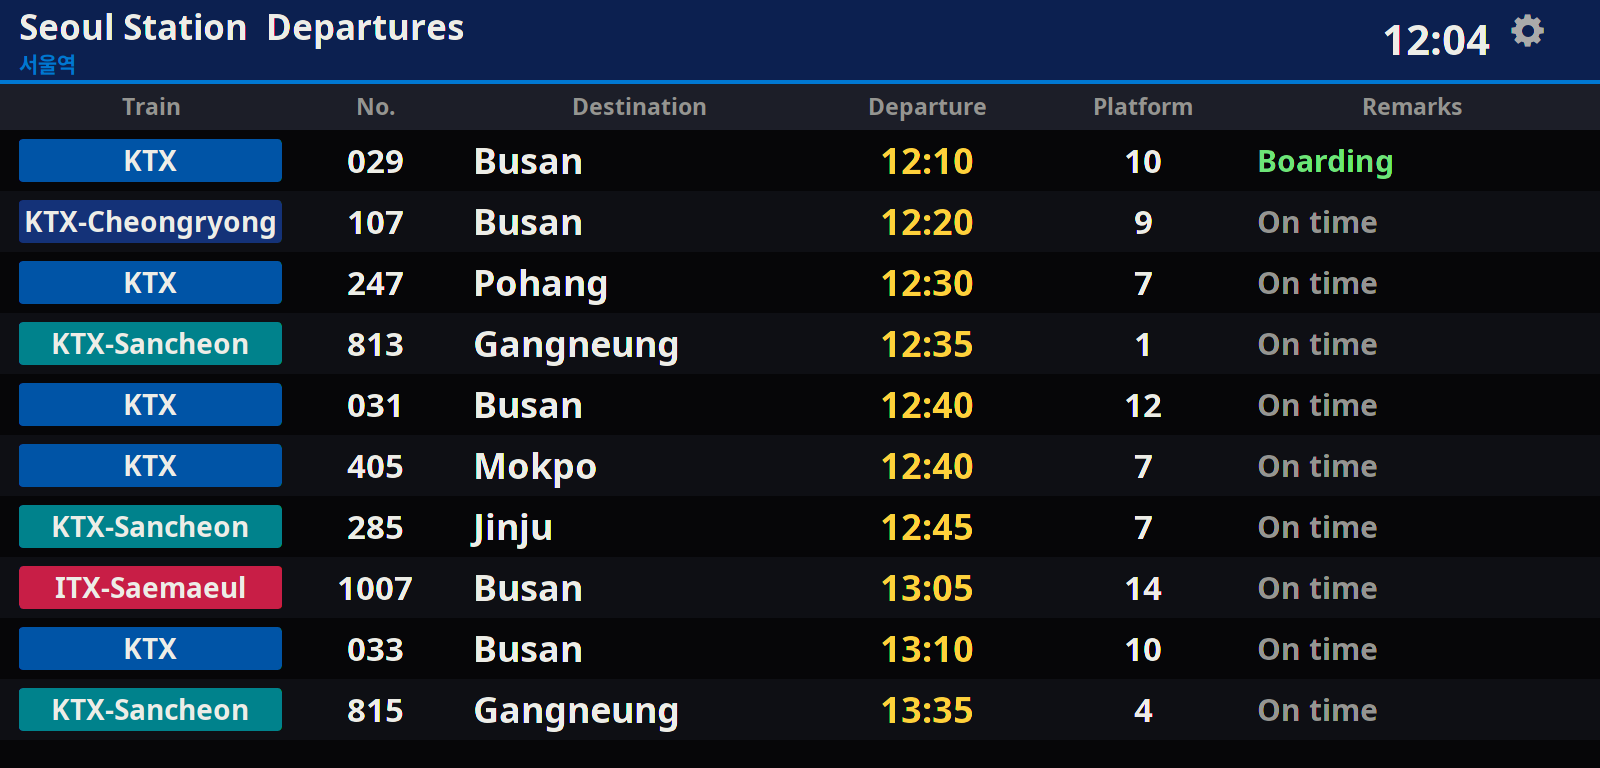
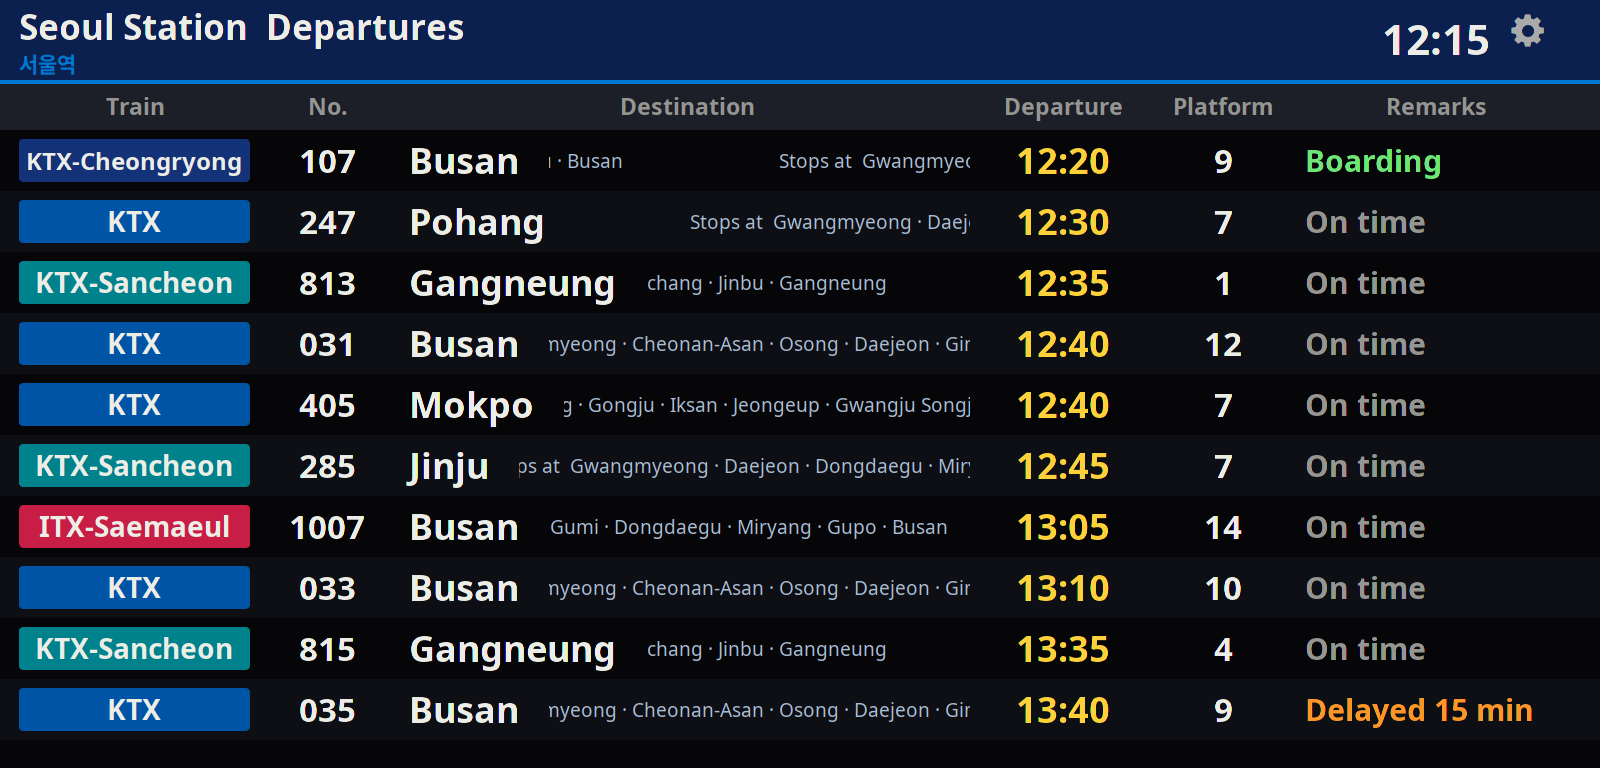
Seoul: scroll the stopping stations after each destination
A marquee in small type after the destination, in the board's current
language; only those strips are redrawn on each tick. The platform column
shows just the number in Korean.

diff --git a/src/Station.cpp b/src/Station.cpp
@@ -271,34 +271,123 @@ build_slots(const void* services, int stride, int count, int64 now,
 
 const KorailService kKorail[] = {
 	{ T(30, 0, 310, 1320), { "KTX", "KTX", "KTX", "KTX" }, C(0, 84, 166),
-		{ "부산", "Busan", "釜山", "釜山" }, 1, 9, 14 },
+		{ "부산", "Busan", "釜山", "釜山" }, 1, 9, 14,
+		"광명|천안아산|오송|대전|김천구미|동대구|신경주|울산|부산" },
 	{ T(120, 50, 330, 1260), { "KTX-청룡", "KTX-Cheongryong", "KTX青龍",
 		"KTX青龙" }, C(20, 50, 120), { "부산", "Busan", "釜山", "釜山" }, 101,
-		9, 14 },
+		9, 14,
+		"광명|대전|동대구|부산" },
 	{ T(120, 15, 330, 1200), { "KTX-산천", "KTX-Sancheon", "KTX山川",
 		"KTX山川" }, C(0, 130, 140), { "마산", "Masan", "馬山", "马山" }, 201,
-		7, 12 },
+		7, 12,
+		"광명|천안아산|오송|대전|동대구|밀양|진영|창원중앙|창원|마산" },
 	{ T(180, 75, 330, 1200), { "KTX-산천", "KTX-Sancheon", "KTX山川",
 		"KTX山川" }, C(0, 130, 140), { "진주", "Jinju", "晋州", "晋州" }, 281,
-		7, 12 },
+		7, 12,
+		"광명|대전|동대구|밀양|창원중앙|창원|마산|진주" },
 	{ T(120, 45, 345, 1215), { "KTX", "KTX", "KTX", "KTX" }, C(0, 84, 166),
-		{ "포항", "Pohang", "浦項", "浦项" }, 241, 7, 12 },
+		{ "포항", "Pohang", "浦項", "浦项" }, 241, 7, 12,
+		"광명|대전|동대구|신경주|포항" },
 	{ T(180, 20, 380, 1220), { "KTX", "KTX", "KTX", "KTX" }, C(0, 84, 166),
-		{ "목포", "Mokpo", "木浦", "木浦" }, 401, 5, 8 },
+		{ "목포", "Mokpo", "木浦", "木浦" }, 401, 5, 8,
+		"광명|천안아산|오송|공주|익산|정읍|광주송정|나주|목포" },
 	{ T(60, 35, 360, 1290), { "KTX-산천", "KTX-Sancheon", "KTX山川",
 		"KTX山川" }, C(0, 130, 140), { "강릉", "Gangneung", "江陵", "江陵" },
-		801, 1, 4 },
+		801, 1, 4,
+		"청량리|상봉|양평|만종|횡성|둔내|평창|진부|강릉" },
 	{ T(120, 65, 360, 1260), { "ITX-새마을", "ITX-Saemaeul", "ITXセマウル",
 		"ITX新村" }, C(200, 30, 70), { "부산", "Busan", "釜山", "釜山" }, 1001,
-		13, 14 },
+		13, 14,
+		"영등포|수원|천안|대전|김천|구미|동대구|밀양|구포|부산" },
 	{ T(120, 25, 335, 1340), { "무궁화호", "Mugunghwa", "ムグンファ号",
 		"无穷花号" }, C(240, 120, 20), { "부산", "Busan", "釜山", "釜山" }, 1201,
-		13, 14 },
+		13, 14,
+		"영등포|수원|평택|천안|조치원|대전|영동|김천|구미|왜관|대구|밀양|구포|부산" },
 	{ T(180, 100, 400, 1300), { "무궁화호", "Mugunghwa", "ムグンファ号",
 		"无穷花号" }, C(240, 120, 20), { "대전", "Daejeon", "大田", "大田" },
-		1251, 13, 14 },
+		1251, 13, 14,
+		"영등포|수원|평택|천안|조치원|대전" },
 };
 const int kKorailCount = sizeof(kKorail) / sizeof(kKorail[0]);
+
+
+// Korean, English, Japanese, Chinese.
+static const char* kKorailStations[][4] = {
+	{ "광명", "Gwangmyeong", "光明", "光明" },
+	{ "천안아산", "Cheonan-Asan", "天安牙山", "天安牙山" },
+	{ "오송", "Osong", "五松", "五松" },
+	{ "대전", "Daejeon", "大田", "大田" },
+	{ "김천구미", "Gimcheon-Gumi", "金泉亀尾", "金泉龟尾" },
+	{ "동대구", "Dongdaegu", "東大邱", "东大邱" },
+	{ "신경주", "Singyeongju", "新慶州", "新庆州" },
+	{ "울산", "Ulsan", "蔚山", "蔚山" },
+	{ "부산", "Busan", "釜山", "釜山" },
+	{ "밀양", "Miryang", "密陽", "密阳" },
+	{ "진영", "Jinyeong", "進永", "进永" },
+	{ "창원중앙", "Changwon Jungang", "昌原中央", "昌原中央" },
+	{ "창원", "Changwon", "昌原", "昌原" },
+	{ "마산", "Masan", "馬山", "马山" },
+	{ "진주", "Jinju", "晋州", "晋州" },
+	{ "포항", "Pohang", "浦項", "浦项" },
+	{ "공주", "Gongju", "公州", "公州" },
+	{ "익산", "Iksan", "益山", "益山" },
+	{ "정읍", "Jeongeup", "井邑", "井邑" },
+	{ "광주송정", "Gwangju Songjeong", "光州松汀", "光州松汀" },
+	{ "나주", "Naju", "羅州", "罗州" },
+	{ "목포", "Mokpo", "木浦", "木浦" },
+	{ "청량리", "Cheongnyangni", "清涼里", "清凉里" },
+	{ "상봉", "Sangbong", "上鳳", "上凤" },
+	{ "양평", "Yangpyeong", "楊平", "杨平" },
+	{ "만종", "Manjong", "万鍾", "万钟" },
+	{ "횡성", "Hoengseong", "横城", "横城" },
+	{ "둔내", "Dunnae", "屯内", "屯内" },
+	{ "평창", "Pyeongchang", "平昌", "平昌" },
+	{ "진부", "Jinbu", "珍富", "珍富" },
+	{ "강릉", "Gangneung", "江陵", "江陵" },
+	{ "영등포", "Yeongdeungpo", "永登浦", "永登浦" },
+	{ "수원", "Suwon", "水原", "水原" },
+	{ "평택", "Pyeongtaek", "平沢", "平泽" },
+	{ "천안", "Cheonan", "天安", "天安" },
+	{ "조치원", "Jochiwon", "鳥致院", "鸟致院" },
+	{ "영동", "Yeongdong", "永同", "永同" },
+	{ "김천", "Gimcheon", "金泉", "金泉" },
+	{ "구미", "Gumi", "亀尾", "龟尾" },
+	{ "왜관", "Waegwan", "倭館", "倭馆" },
+	{ "대구", "Daegu", "大邱", "大邱" },
+	{ "구포", "Gupo", "亀浦", "龟浦" },
+};
+
+
+BString
+korail_stops(const KorailService& service, int lang)
+{
+	static const char* kLead[4] = { "정차역  ", "Stops at  ", "停車駅  ",
+		"停靠站  " };
+	static const char* kSeparator[4] = { " · ", " · ", "・", "・" };
+	BString out(kLead[lang]);
+	const int known = sizeof(kKorailStations) / sizeof(kKorailStations[0]);
+	const char* s = service.stops;
+	bool first = true;
+	while (*s != '\0') {
+		const char* end = strchr(s, '|');
+		if (end == NULL)
+			end = s + strlen(s);
+		BString name(s, end - s);
+		const char* shown = name.String();
+		for (int i = 0; i < known; i++) {
+			if (name == kKorailStations[i][0]) {
+				shown = kKorailStations[i][lang];
+				break;
+			}
+		}
+		if (!first)
+			out << kSeparator[lang];
+		out << shown;
+		first = false;
+		s = *end == '\0' ? end : end + 1;
+	}
+	return out;
+}
 
 
 // #pragma mark - London Victoria

diff --git a/src/Board.cpp b/src/Board.cpp
@@ -178,6 +178,7 @@ BoardView::BoardView(BRect frame, int airport)
 	fStation(airport >= kAirportCount ? airport - kAirportCount : -1),
 	fStationKey(-1),
 	fStationMinute(-1),
+	fMarqueeCount(0),
 	fPhase(0),
 	fFixedPhase(-1),
 	fFooter(0),
@@ -1500,6 +1501,8 @@ BoardView::_TickStation(bigtime_t now)
 		if (Window() != NULL)
 			Invalidate();
 	}
+	if (station.style == STYLE_KORAIL)
+		_DrawMarquees(now);
 
 	if (Window() != NULL && now - fLastMouse > 3000000) {
 		be_app->ObscureCursor();
@@ -1821,6 +1824,7 @@ BoardView::_DrawSeoul(int lang, int64 now)
 	float m = floorf(W * 0.012f);
 	v->SetHighColor(kLedBackground);
 	v->FillRect(bounds);
+	fMarqueeCount = 0;
 	_DrawStationHeader(kTitle[lang], lang == 0 ? "Seoul Station" : "서울역",
 		now, make_color(12, 32, 80),
 		make_color(0, 120, 210));
@@ -1830,7 +1834,7 @@ BoardView::_DrawSeoul(int lang, int64 now)
 	float labelTop = bandH;
 	v->SetHighColor(28, 30, 40);
 	v->FillRect(BRect(0, labelTop, W - 1, labelTop + labelH - 1));
-	float fractions[6] = { 0.17f, 0.11f, 0.22f, 0.14f, 0.13f, 0.0f };
+	float fractions[6] = { 0.15f, 0.09f, 0.36f, 0.11f, 0.09f, 0.0f };
 	float xs[7];
 	xs[0] = m;
 	for (int i = 0; i < 5; i++)
@@ -1879,6 +1883,25 @@ BoardView::_DrawSeoul(int lang, int64 now)
 			rowH * 0.55f, kLedText, ALIGN_CENTER, &fFallback);
 		_DrawIn(v, service.dest[lang], BRect(xs[2] + 6, y, xs[3] - 8,
 			y + rowH - 1), rowH * 0.6f, kLedText, ALIGN_LEFT, &fFallback);
+		// After the destination, small, the stations it stops at: they
+		// scroll, redrawn on every tick by _DrawMarquees().
+		BFont destFont(font_for(service.dest[lang], fFallback, fFallback,
+			fCJK));
+		destFont.SetSize(rowH * 0.6f);
+		float marqueeLeft = xs[2] + 6 + destFont.StringWidth(service.dest[lang])
+			+ rowH * 0.5f;
+		if (fMarqueeCount < 12 && marqueeLeft < xs[3] - 40) {
+			Marquee& marquee = fMarquees[fMarqueeCount++];
+			marquee.area.Set(marqueeLeft, y + rowH * 0.2f, xs[3] - 10,
+				y + rowH * 0.8f);
+			marquee.text = korail_stops(service, lang);
+			marquee.background = row % 2 == 0 ? make_color(14, 15, 20)
+				: kLedBackground;
+			BFont font(font_for(marquee.text.String(), fFallback, fFallback,
+				fCJK));
+			font.SetSize(rowH * 0.32f);
+			marquee.width = font.StringWidth(marquee.text.String());
+		}
 		snprintf(buffer, sizeof(buffer), "%02d:%02d",
 			(int)(slots[i].departs % 1440 / 60), (int)(slots[i].departs % 60));
 		_DrawIn(v, buffer, BRect(xs[3], y, xs[4] - 8, y + rowH - 1),
@@ -1886,7 +1909,7 @@ BoardView::_DrawSeoul(int lang, int64 now)
 
 		int track = service.trackMin
 			+ (int)((h >> 16) % (service.trackMax - service.trackMin + 1));
-		static const char* kTrack[4] = { "%d번", "%d", "%d番線", "%d站台" };
+		static const char* kTrack[4] = { "%d", "%d", "%d番線", "%d站台" };
 		snprintf(buffer, sizeof(buffer), kTrack[lang], track);
 		_DrawIn(v, buffer, BRect(xs[4], y, xs[5] - 8, y + rowH - 1),
 			rowH * 0.55f, kLedText, ALIGN_CENTER, &fFallback);
@@ -2513,4 +2536,50 @@ BoardView::_DrawSydney(int64 now)
 	}
 	v->Sync();
 	fBoard->Unlock();
+}
+
+
+
+// The stopping stations of Seoul's trains, moving right to left, a little
+// further on every tick. Only these strips are redrawn.
+void
+BoardView::_DrawMarquees(bigtime_t now)
+{
+	if (fBoard == NULL || fMarqueeCount == 0)
+		return;
+	const float kSpeed = 70;	// pixels a second
+	BView* v = fBoardView;
+	fBoard->Lock();
+	BRegion dirty;
+	for (int i = 0; i < fMarqueeCount; i++) {
+		Marquee& marquee = fMarquees[i];
+		BRect area = marquee.area;
+		float gap = area.Height() * 4;
+		float span = marquee.width + gap;
+		float offset = fmodf((float)(now / 1000) * kSpeed / 1000, span);
+		BRegion clip(area);
+		v->ConstrainClippingRegion(&clip);
+		v->SetHighColor(marquee.background);
+		v->FillRect(area);
+		BFont font(font_for(marquee.text.String(), fFallback, fFallback,
+			fCJK));
+		font.SetFace(B_REGULAR_FACE);
+		font.SetSize(area.Height() * 0.53f);
+		font_height fh;
+		font.GetHeight(&fh);
+		float y = floorf(area.top + (area.Height() + 1 + fh.ascent
+			- fh.descent) / 2);
+		v->SetFont(&font);
+		v->SetHighColor(170, 190, 215);
+		v->SetDrawingMode(B_OP_OVER);
+		for (float x = area.left - offset; x < area.right; x += span)
+			v->DrawString(marquee.text.String(), BPoint(x, y));
+		v->SetDrawingMode(B_OP_COPY);
+		v->ConstrainClippingRegion(NULL);
+		dirty.Include(area);
+	}
+	v->Sync();
+	fBoard->Unlock();
+	if (Window() != NULL)
+		Invalidate(&dirty);
 }

diff --git a/src/Board.h b/src/Board.h
@@ -132,6 +132,7 @@ private:
 			void			_DrawSeoul(int lang, int64 now);
 			void			_DrawVictoria(int page, int64 now);
 			void			_DrawSydney(int64 now);
+			void			_DrawMarquees(bigtime_t now);
 			void			_DrawStationHeader(const char* title,
 								const char* subtitle, int64 now,
 								rgb_color band, rgb_color accent);
@@ -143,6 +144,16 @@ private:
 			int				fStation;	// into kStations, -1 for an airport
 			int				fStationKey;	// what is on the board now
 			int64			fStationMinute;
+
+			// Seoul's stopping stations, scrolling along each row.
+			struct Marquee {
+				BRect		area;
+				BString		text;
+				rgb_color	background;
+				float		width;
+			};
+			Marquee			fMarquees[12];
+			int				fMarqueeCount;
 			int				fPhase;
 			int				fFixedPhase;
 			int				fFooter;

diff --git a/src/Station.h b/src/Station.h
@@ -14,6 +14,8 @@
 
 #include <SupportDefs.h>
 
+#include <String.h>
+
 #include "Data.h"
 
 
@@ -118,10 +120,16 @@ struct KorailService {
 	int			number;
 	int			trackMin;
 	int			trackMax;
+	// Where it stops, by Korean name, separated by '|'.
+	const char*	stops;
 };
 
 extern const KorailService kKorail[];
 extern const int kKorailCount;
+
+// The stops of a Seoul train in one of the four languages (0 Korean,
+// 1 English, 2 Japanese, 3 Chinese), joined for the scrolling line.
+BString	korail_stops(const KorailService& service, int lang);
 
 
 // London Victoria.

diff --git a/README.ko.md b/README.ko.md
@@ -80,7 +80,8 @@ LED/LCD 안내판처럼 발차 시각, 행선지, 노선 색상의 승강장 번
 
 코레일 출발 안내 화면입니다. 열차 종류(KTX, KTX-청룡, KTX-산천, ITX-새마을, 무궁화호)를
 그 색상으로, 열차번호, 행선지, 출발시각, 타는곳, 비고(정상운행, 탑승중, 탑승마감, 지연)를
-보여 주고, 한국어·영어·일본어·중국어로 번갈아 나옵니다.
+보여 주고, 한국어·영어·일본어·중국어로 번갈아 나옵니다. 행선지 뒤에는 그 열차의
+정차역이 작은 글씨로 흘러갑니다.
 
 ![서울역](docs/seoul.png)
 ![서울역, 영어](docs/seoul-english.png)

diff --git a/README.md b/README.md
@@ -86,7 +86,8 @@ services, not live data.
 Korail's departure screen: the train type on its colour (KTX, KTX-Cheongryong,
 KTX-Sancheon, ITX-Saemaeul, Mugunghwa), train number, destination, departure
 time, platform and remarks (on time, boarding, closing, delayed), in Korean,
-English, Japanese and Chinese in turn.
+English, Japanese and Chinese in turn. After each destination the stations the
+train stops at scroll past in small type.
 
 ![Seoul Station](docs/seoul.png)
 ![Seoul Station, in English](docs/seoul-english.png)
